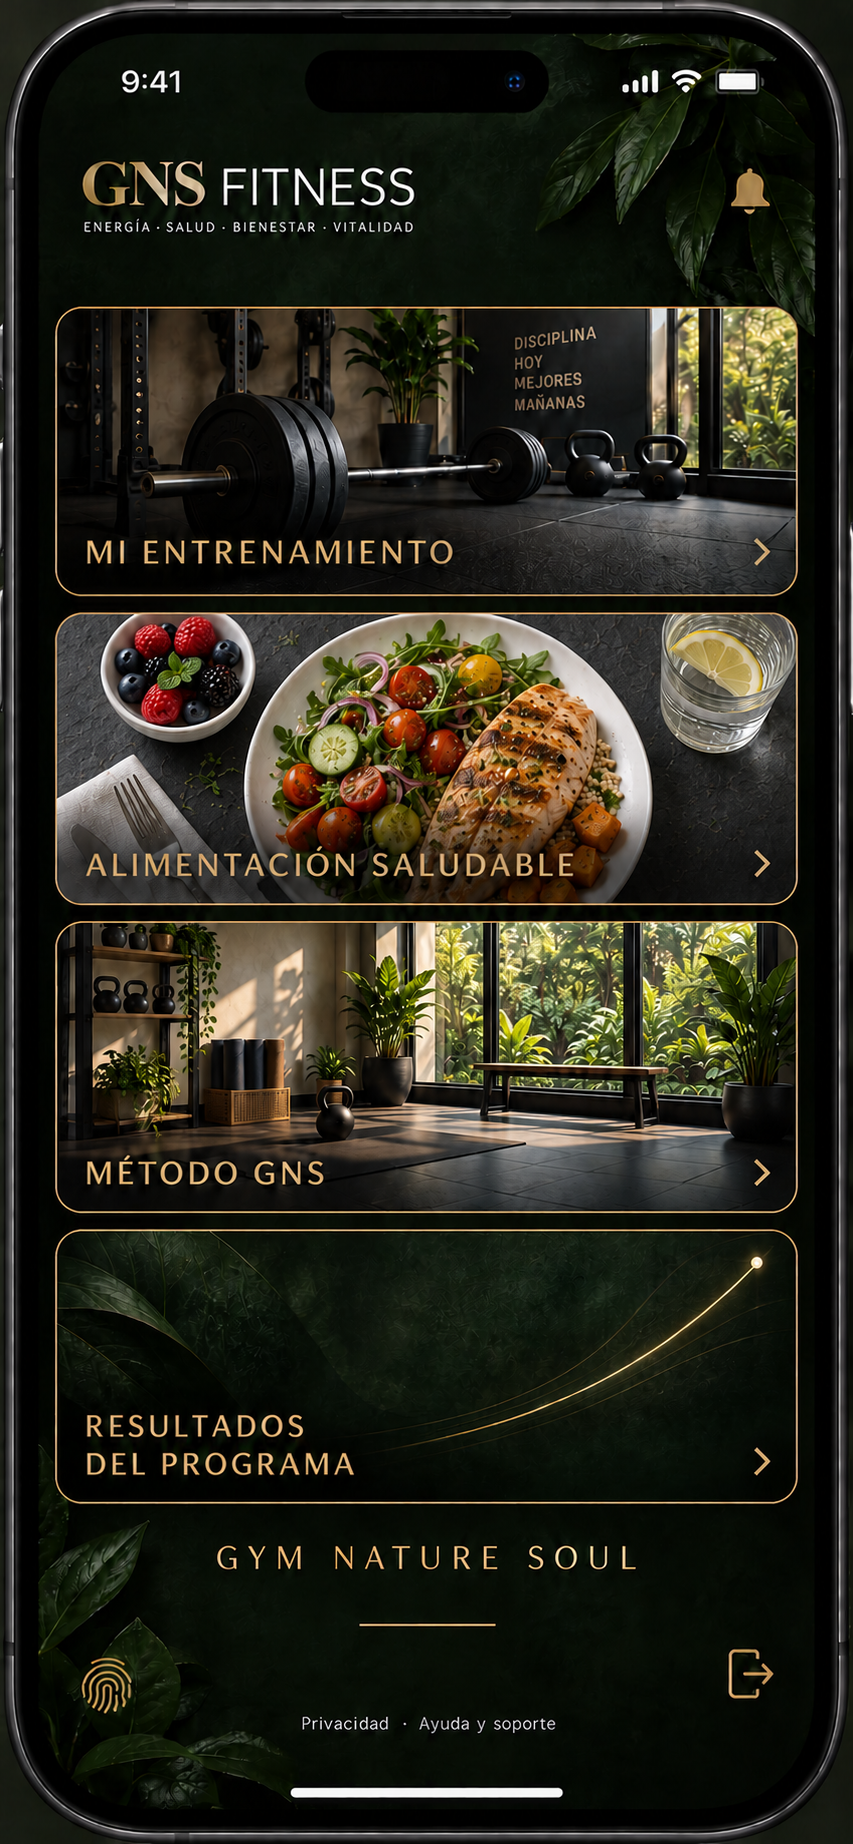
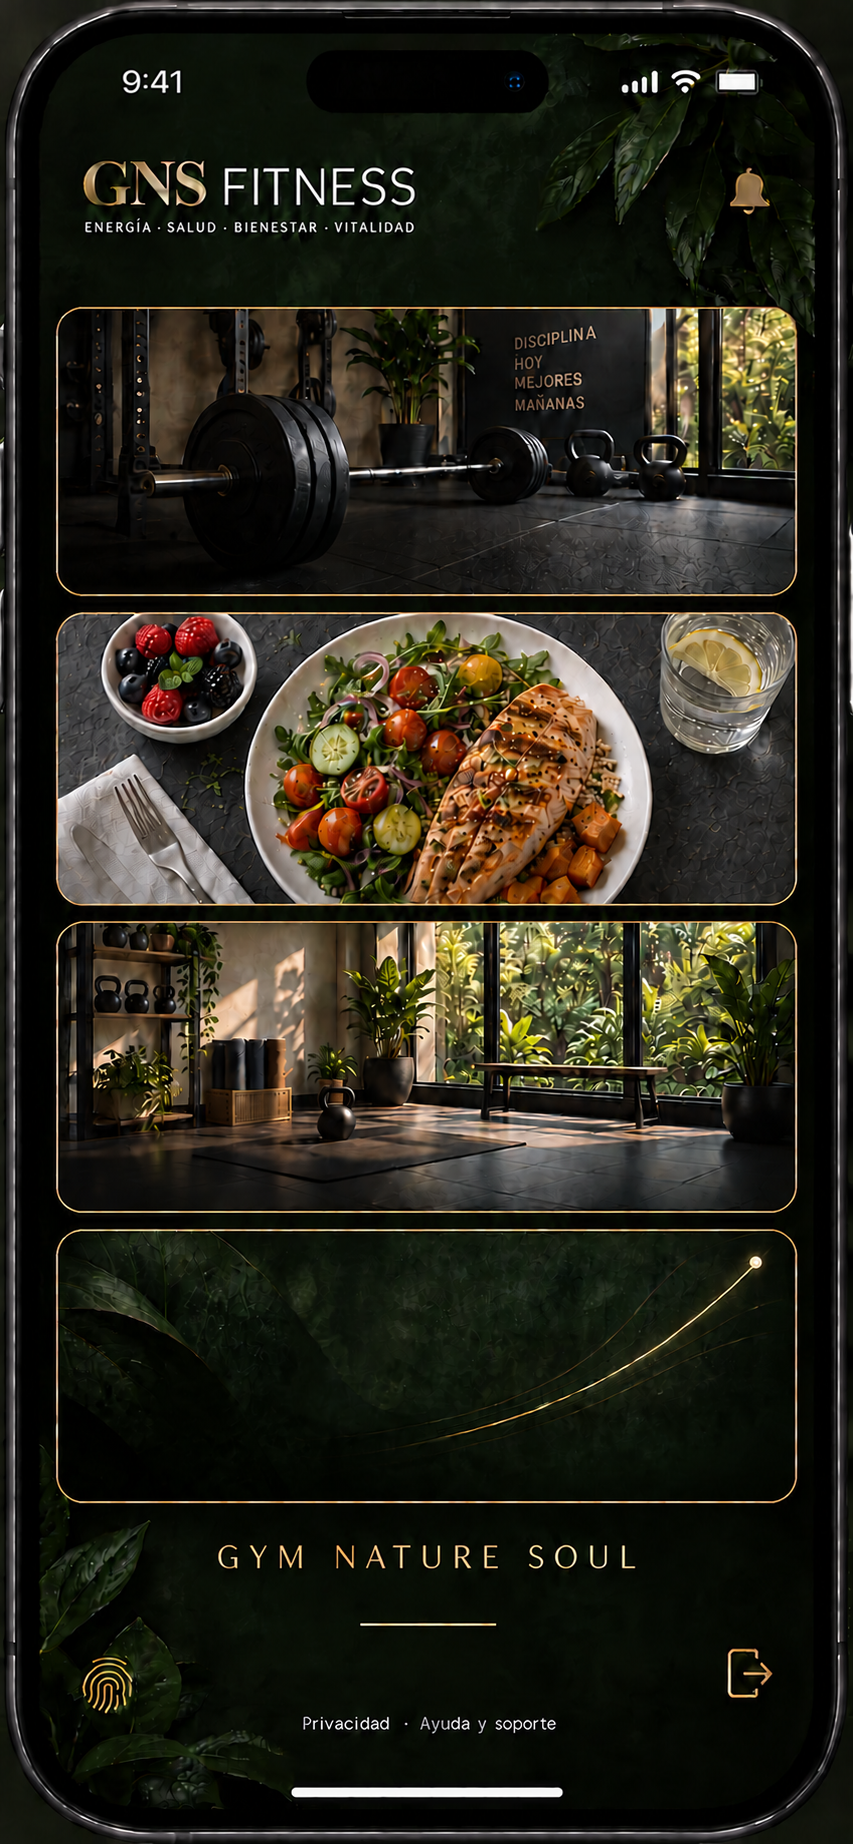
Keep full photographs and persistent consistent gold student header

diff --git a/src/StudentCards.css b/src/StudentCards.css
@@ -261,3 +261,28 @@
 .app .cloud-student.student-cards-design[data-section=home] .student-home-menu nav .student-menu-results .student-menu-title{max-width:200px}
 .app .cloud-student.student-cards-design[data-section=home] .student-brand-signature{margin:18px 0 10px}
 .app .cloud-student.student-cards-design[data-section=home] .student-menu-results::after{height:45%;background:linear-gradient(0deg,#0b100c 88%,transparent)}
+
+/* Full photos remain visible beneath the live titles; no solid caption strip. */
+.app .cloud-student.student-cards-design[data-section=home] .student-menu-card::after,
+.app .cloud-student.student-cards-design[data-section=home] .student-menu-results::after{height:65%;background:linear-gradient(0deg,#0009,transparent)}
+.app .cloud-student.student-cards-design[data-section=home] .student-home-menu nav .student-menu-title{filter:drop-shadow(0 1px 2px #000);background-image:linear-gradient(110deg,#c99a45,#e9bd65 35%,#f6df9e 48%,#deb05c 64%,#c99a45)}
+.app .cloud-student.student-cards-design[data-section]{padding-top:116px}
+.app .cloud-student.student-cards-design[data-section] .student-cards-brand{position:fixed;top:0;left:50%;transform:translateX(-50%);width:calc(100% - 32px);max-width:608px;z-index:110;height:100px;min-height:100px;padding:calc(16px + env(safe-area-inset-top,0px)) 12px 12px;display:flex;align-items:flex-start;text-align:left;background:#0d1711;border-bottom:1px solid #b99b5b33;box-sizing:border-box}
+.app .cloud-student.student-cards-design[data-section] .student-cards-brand img{display:none}
+.app .cloud-student.student-cards-design[data-section] .student-cards-brand strong{font-family:Georgia,'Times New Roman',serif;font-weight:400;font-size:32px;letter-spacing:-.025em;background:linear-gradient(110deg,#c99a45,#e9bd65 35%,#f6df9e 48%,#deb05c 64%,#c99a45);background-clip:text;-webkit-background-clip:text;-webkit-text-fill-color:transparent}
+.app .cloud-student.student-cards-design[data-section] .student-cards-brand strong span{font-family:Arial,Helvetica,sans-serif;font-weight:400;font-size:27px;letter-spacing:.005em;color:#efeee7;-webkit-text-fill-color:#efeee7}
+.app .cloud-student.student-cards-design[data-section] .student-cards-brand small{font-size:6.7px;letter-spacing:.12em}
+.app .cloud-student.student-cards-design[data-section=home] .student-toolbar{position:fixed;top:30px;right:max(20px,calc((100vw - 608px)/2));z-index:111}
+.app .cloud-student.student-cards-design[data-section=nutrition] :is(.student-back,.guide-back){top:calc(104px + env(safe-area-inset-top,0px))}
+.app .cloud-student.student-cards-design[data-section=nutrition]{padding-top:158px}
+.app .cloud-student.student-cards-design .student-section-heading h1{color:#dfb56d;background:linear-gradient(110deg,#c99a45,#e9bd65 35%,#f6df9e 48%,#deb05c 64%,#c99a45);background-clip:text;-webkit-background-clip:text;-webkit-text-fill-color:transparent}
+@media(max-width:360px){.app .cloud-student.student-cards-design[data-section] .student-cards-brand strong{font-size:28px}.app .cloud-student.student-cards-design[data-section] .student-cards-brand strong span{font-size:24px}}
+/* One brand treatment and persistent back control throughout the student portal. */
+.app .cloud-student.student-cards-design[data-section] .student-cards-brand{flex-direction:column;justify-content:flex-start;align-items:flex-start;text-align:left}
+.app .cloud-student.student-cards-design[data-section] .student-cards-brand>div{width:auto;text-align:left}
+.app .cloud-student.student-cards-design[data-section] .student-cards-brand strong,
+.app .cloud-student.student-cards-design[data-section=home] .student-home-menu nav .student-menu-title,
+.app .cloud-student.student-cards-design .student-section-heading h1{background-image:linear-gradient(110deg,#bc8834 0%,#e7b74f 28%,#f3d584 47%,#dba43d 65%,#efc76b 100%);background-clip:text;-webkit-background-clip:text;-webkit-text-fill-color:transparent;color:#e7b74f}
+.app .cloud-student.student-cards-design[data-section]:not([data-section=home]) :is(.student-back,.guide-back){position:fixed;top:calc(104px + env(safe-area-inset-top,0px));left:max(24px,calc((100vw - 608px)/2 + 8px));z-index:112;width:44px;height:44px;min-width:44px;min-height:44px;margin:0;padding:0;display:grid;place-items:center;background:#18191a;border:1px solid #b99b5b88;border-radius:12px;color:#dfb56d;font-size:24px}
+.app .cloud-student.student-cards-design[data-section=nutrition]:has(.guide-back) .student-back{display:none}
+.app .cloud-student.student-cards-design[data-section]:not([data-section=home]){padding-top:158px}
